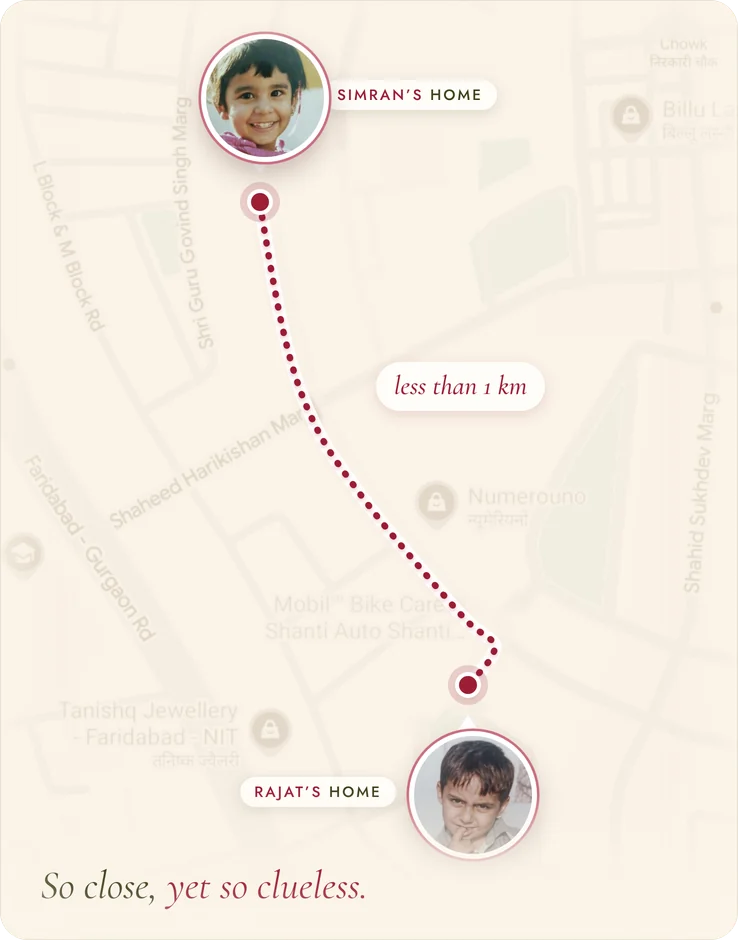
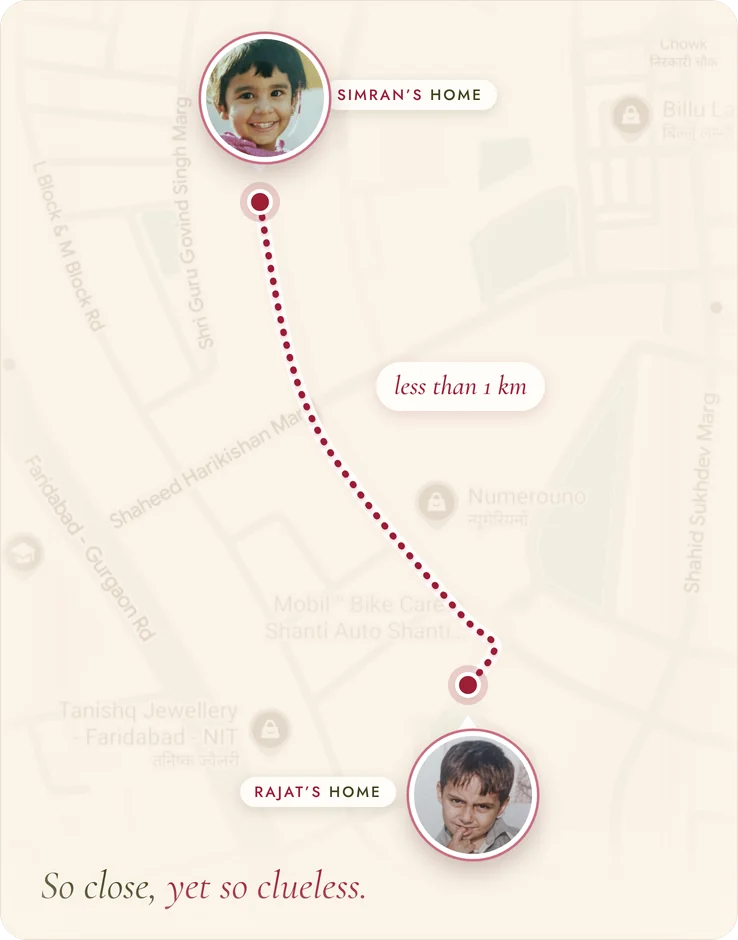
Map: keep the faces clear of the soft edge fade
Claude-Session: https://claude.ai/code/session_017GcfSBjfveMfY8L2d8GX4C

Changed region(s): [[0.561, 0.833, 0.7168, 0.9255], [0.3428, 0.0309, 0.4051, 0.0617]]

diff --git a/index.html b/index.html
@@ -36,7 +36,7 @@
   <link rel="preconnect" href="https://fonts.googleapis.com">
   <link rel="preconnect" href="https://fonts.gstatic.com" crossorigin>
   <link href="https://fonts.googleapis.com/css2?family=Cormorant+Garamond:ital,wght@0,300;0,400;0,500;1,300;1,400&family=Jost:wght@300;400;500&family=Tiro+Devanagari+Hindi&display=swap" rel="stylesheet">
-  <link rel="stylesheet" href="css/style.css?v=20261027200858">
+  <link rel="stylesheet" href="css/style.css?v=20261027201129">
   <script>document.documentElement.classList.add('js');</script>
 </head>
 <body>
@@ -141,7 +141,7 @@
 
         <div class="story__intro">
           <figure class="story__map" data-reveal>
-            <img src="assets/flora/our-map-sm.webp?v=3" srcset="assets/flora/our-map-sm.webp?v=3 738w, assets/flora/our-map.webp?v=3 1476w"
+            <img src="assets/flora/our-map-sm.webp?v=4" srcset="assets/flora/our-map-sm.webp?v=4 738w, assets/flora/our-map.webp?v=4 1476w"
                  sizes="(min-width: 900px) 40vw, 92vw" width="1476" height="1880" loading="lazy" decoding="async"
                  alt="A map of Faridabad with Simran’s and Rajat’s childhood homes marked by their childhood photos, less than a kilometre apart. Caption: So close, yet so clueless.">
           </figure>
@@ -279,10 +279,10 @@
     <p class="lightbox__count" id="lightboxCount"></p>
   </div>
 
-  <script src="js/config.js?v=20261027200858"></script>
-  <script src="js/edition.js?v=20261027200858"></script>
-  <script src="assets/media-manifest.js?v=20261027200858"></script>
+  <script src="js/config.js?v=20261027201129"></script>
+  <script src="js/edition.js?v=20261027201129"></script>
+  <script src="assets/media-manifest.js?v=20261027201129"></script>
   <script src="https://cdn.jsdelivr.net/npm/lenis@1.1.13/dist/lenis.min.js" defer></script>
-  <script src="js/main.js?v=20261027200858" defer></script>
+  <script src="js/main.js?v=20261027201129" defer></script>
 </body>
 </html>
